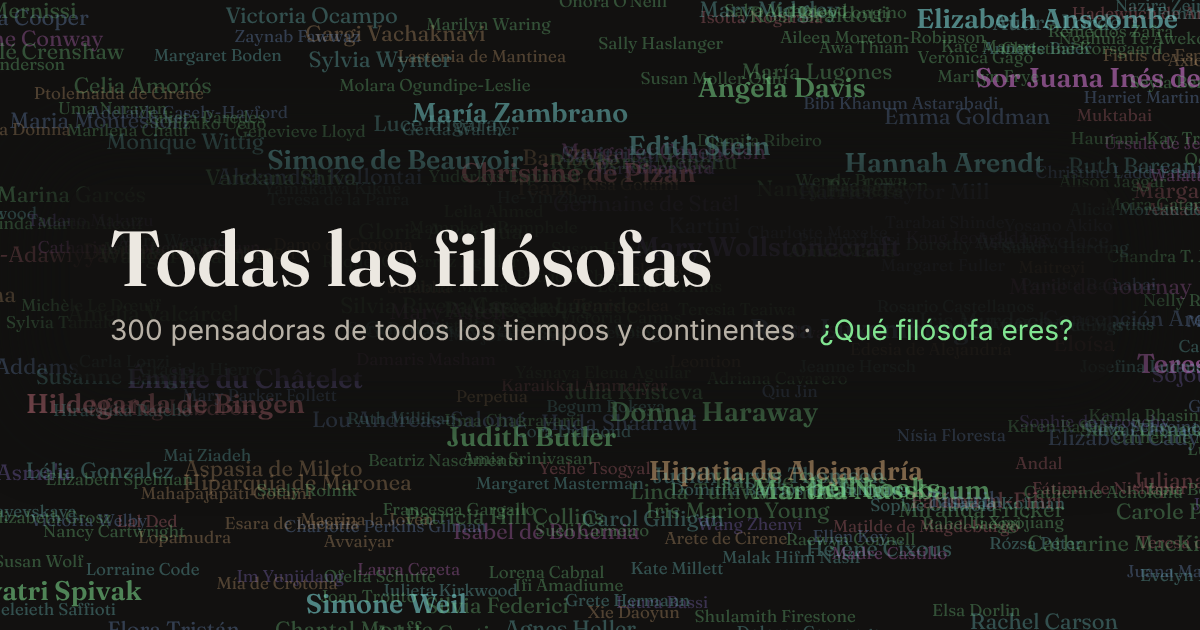
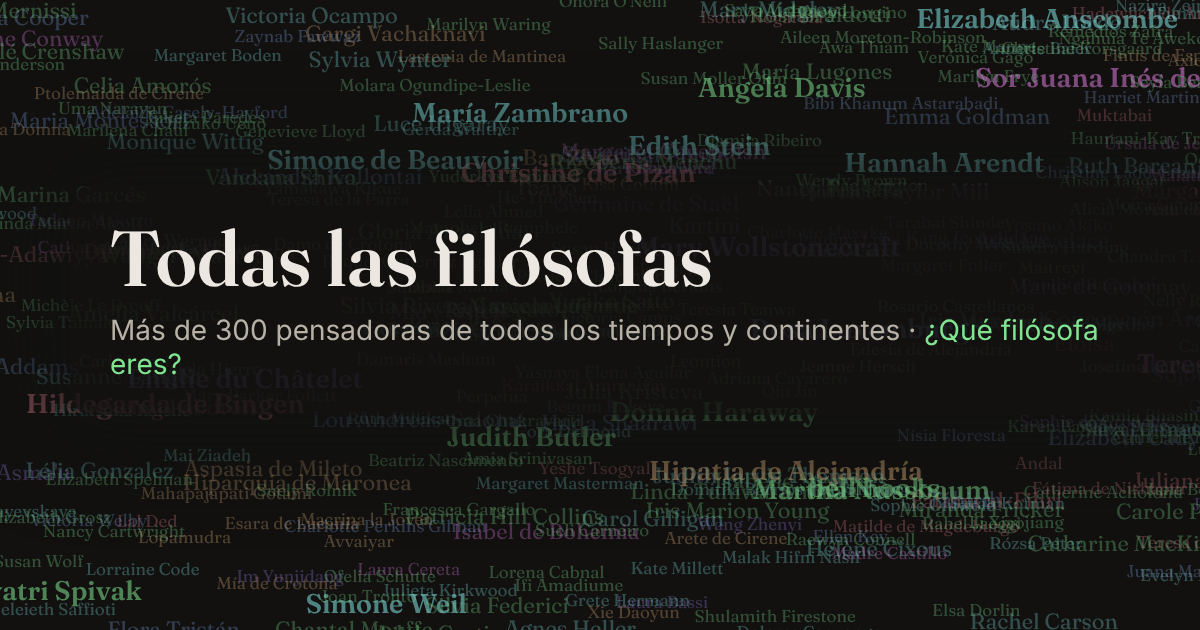
Filósofas: añadir a Yuriko Saito (estética cotidiana)
Claude-Session: https://claude.ai/code/session_01KKfWKBF6TY6dsgWVrcAB93

diff --git a/filosofas/index.html b/filosofas/index.html
@@ -4,17 +4,17 @@
 <meta charset="utf-8">
 <meta name="viewport" content="width=device-width, initial-scale=1">
 <title>Todas las filósofas</title>
-<meta name="description" content="300 filósofas de todos los tiempos y continentes en un mapa de todas las épocas: cada nombre está colocado según sus temas y coloreado según su época.">
+<meta name="description" content="Más de 300 filósofas de todos los tiempos y continentes en un mapa de todas las épocas: cada nombre está colocado según sus temas y coloreado según su época.">
 <meta property="og:type" content="website">
 <meta property="og:locale" content="es_ES">
 <meta property="og:url" content="https://todaslasfilosofas.netlify.app/">
 <link rel="canonical" href="https://todaslasfilosofas.netlify.app/">
 <meta property="og:title" content="Todas las filósofas">
-<meta property="og:description" content="300 filósofas de todos los tiempos y continentes en un mapa. ¿Qué filósofa eres?">
+<meta property="og:description" content="Más de 300 filósofas de todos los tiempos y continentes en un mapa. ¿Qué filósofa eres?">
 <meta property="og:image" content="https://todaslasfilosofas.netlify.app/og.png">
 <meta name="twitter:card" content="summary_large_image">
 <meta name="twitter:title" content="Todas las filósofas">
-<meta name="twitter:description" content="300 filósofas de todos los tiempos y continentes en un mapa. ¿Qué filósofa eres?">
+<meta name="twitter:description" content="Más de 300 filósofas de todos los tiempos y continentes en un mapa. ¿Qué filósofa eres?">
 <meta name="twitter:image" content="https://todaslasfilosofas.netlify.app/og.png">
 <link rel="preconnect" href="https://fonts.googleapis.com">
 <link href="https://fonts.googleapis.com/css2?family=Fraunces:opsz,wght@9..144,400;9..144,600&family=Inter:wght@400;500&display=swap" rel="stylesheet">
@@ -441,7 +441,8 @@ const D=[
 ["Mary Parker Follett",1868,1933,0,"Massachusetts","Pragmatismo","politica etica","El «poder con» frente al «poder sobre».",1],
 ["Maria Montessori",1870,1952,0,"Italia","Pedagogía","educacion cuerpo","La niña y el niño se educan a sí mismos en un entorno preparado.",2],
 ["Grace de Laguna",1878,1978,0,"Estados Unidos","Pragmatismo","lenguaje mente","El habla nace de su función social.",1],
-["Rachel Carson",1907,1964,0,"Pensilvania","Ecología","ecologia ciencia","«Primavera silenciosa».",2]
+["Rachel Carson",1907,1964,0,"Pensilvania","Ecología","ecologia ciencia","«Primavera silenciosa».",2],
+["Yuriko Saito",1953,null,1,"Japón / EE. UU.","Estética cotidiana","estetica ecologia etica","«Estética cotidiana»: lo bello y lo feo en lo que hacemos cada día —lavar, ordenar, reparar— tiene consecuencias éticas y ecológicas.",2]
 ];
 
 /* temas → dirección en el mapa: [x: abstracta(-) / política(+), y: lógica(-) / mística(+)] */
@@ -835,7 +836,7 @@ async function shareImage(p,text){
   wrap(x,p.s,W-160).slice(0,6).forEach(l=>{x.fillText(l,80,y);y+=62});
   x.fillStyle=col;x.fillRect(80,H-170,90,6);
   x.fillStyle='#ece8e1';x.font='600 40px Fraunces, Georgia, serif';x.fillText('Todas las filósofas',80,H-140);
-  x.fillStyle='#9a948a';x.font='400 30px Inter, sans-serif';x.fillText('300 pensadoras · ¿y tú cuál eres?',80,H-88);
+  x.fillStyle='#9a948a';x.font='400 30px Inter, sans-serif';x.fillText('Más de 300 pensadoras · ¿y tú cuál eres?',80,H-88);
   const blob=await new Promise(r=>c.toBlob(r,'image/png'));
   const file=new File([blob],'mi-filosofa.png',{type:'image/png'});
   if(navigator.canShare&&navigator.canShare({files:[file]})){try{await navigator.share({files:[file],text:text+' '+BASE+'#test'});return}catch(e){if(e.name==='AbortError')return}}

diff --git a/filosofas/acerca.html b/filosofas/acerca.html
@@ -24,7 +24,7 @@ p,li{color:var(--fg)} .muted{color:var(--muted);font-size:14px}
 <main>
 <a class="back" href="./">← Volver al mapa</a>
 <h1>Acerca de Todas las filósofas</h1>
-<p>«Todas las filósofas» es un mapa de 300 pensadoras de todos los tiempos y continentes, desde Enheduana, en la antigua Mesopotamia, hasta filósofas que escriben hoy. Nace para hacer visible una historia de la filosofía que casi siempre se ha contado sin ellas.</p>
+<p>«Todas las filósofas» es un mapa de más de 300 pensadoras de todos los tiempos y continentes, desde Enheduana, en la antigua Mesopotamia, hasta filósofas que escriben hoy. Nace para hacer visible una historia de la filosofía que casi siempre se ha contado sin ellas.</p>
 <p>Cada nombre está colocado según sus temas: arriba, lo más místico, poético y existencial; abajo, lo más lógico y científico; a la izquierda, lo más abstracto; a la derecha, lo más político y encarnado. El color indica la época. También puedes verlas en una línea del tiempo, agrupadas por continentes o descubrir cuál se parece más a ti con el test «¿Qué filósofa eres?».</p>
 
 <h2>Sobre las fichas</h2>
